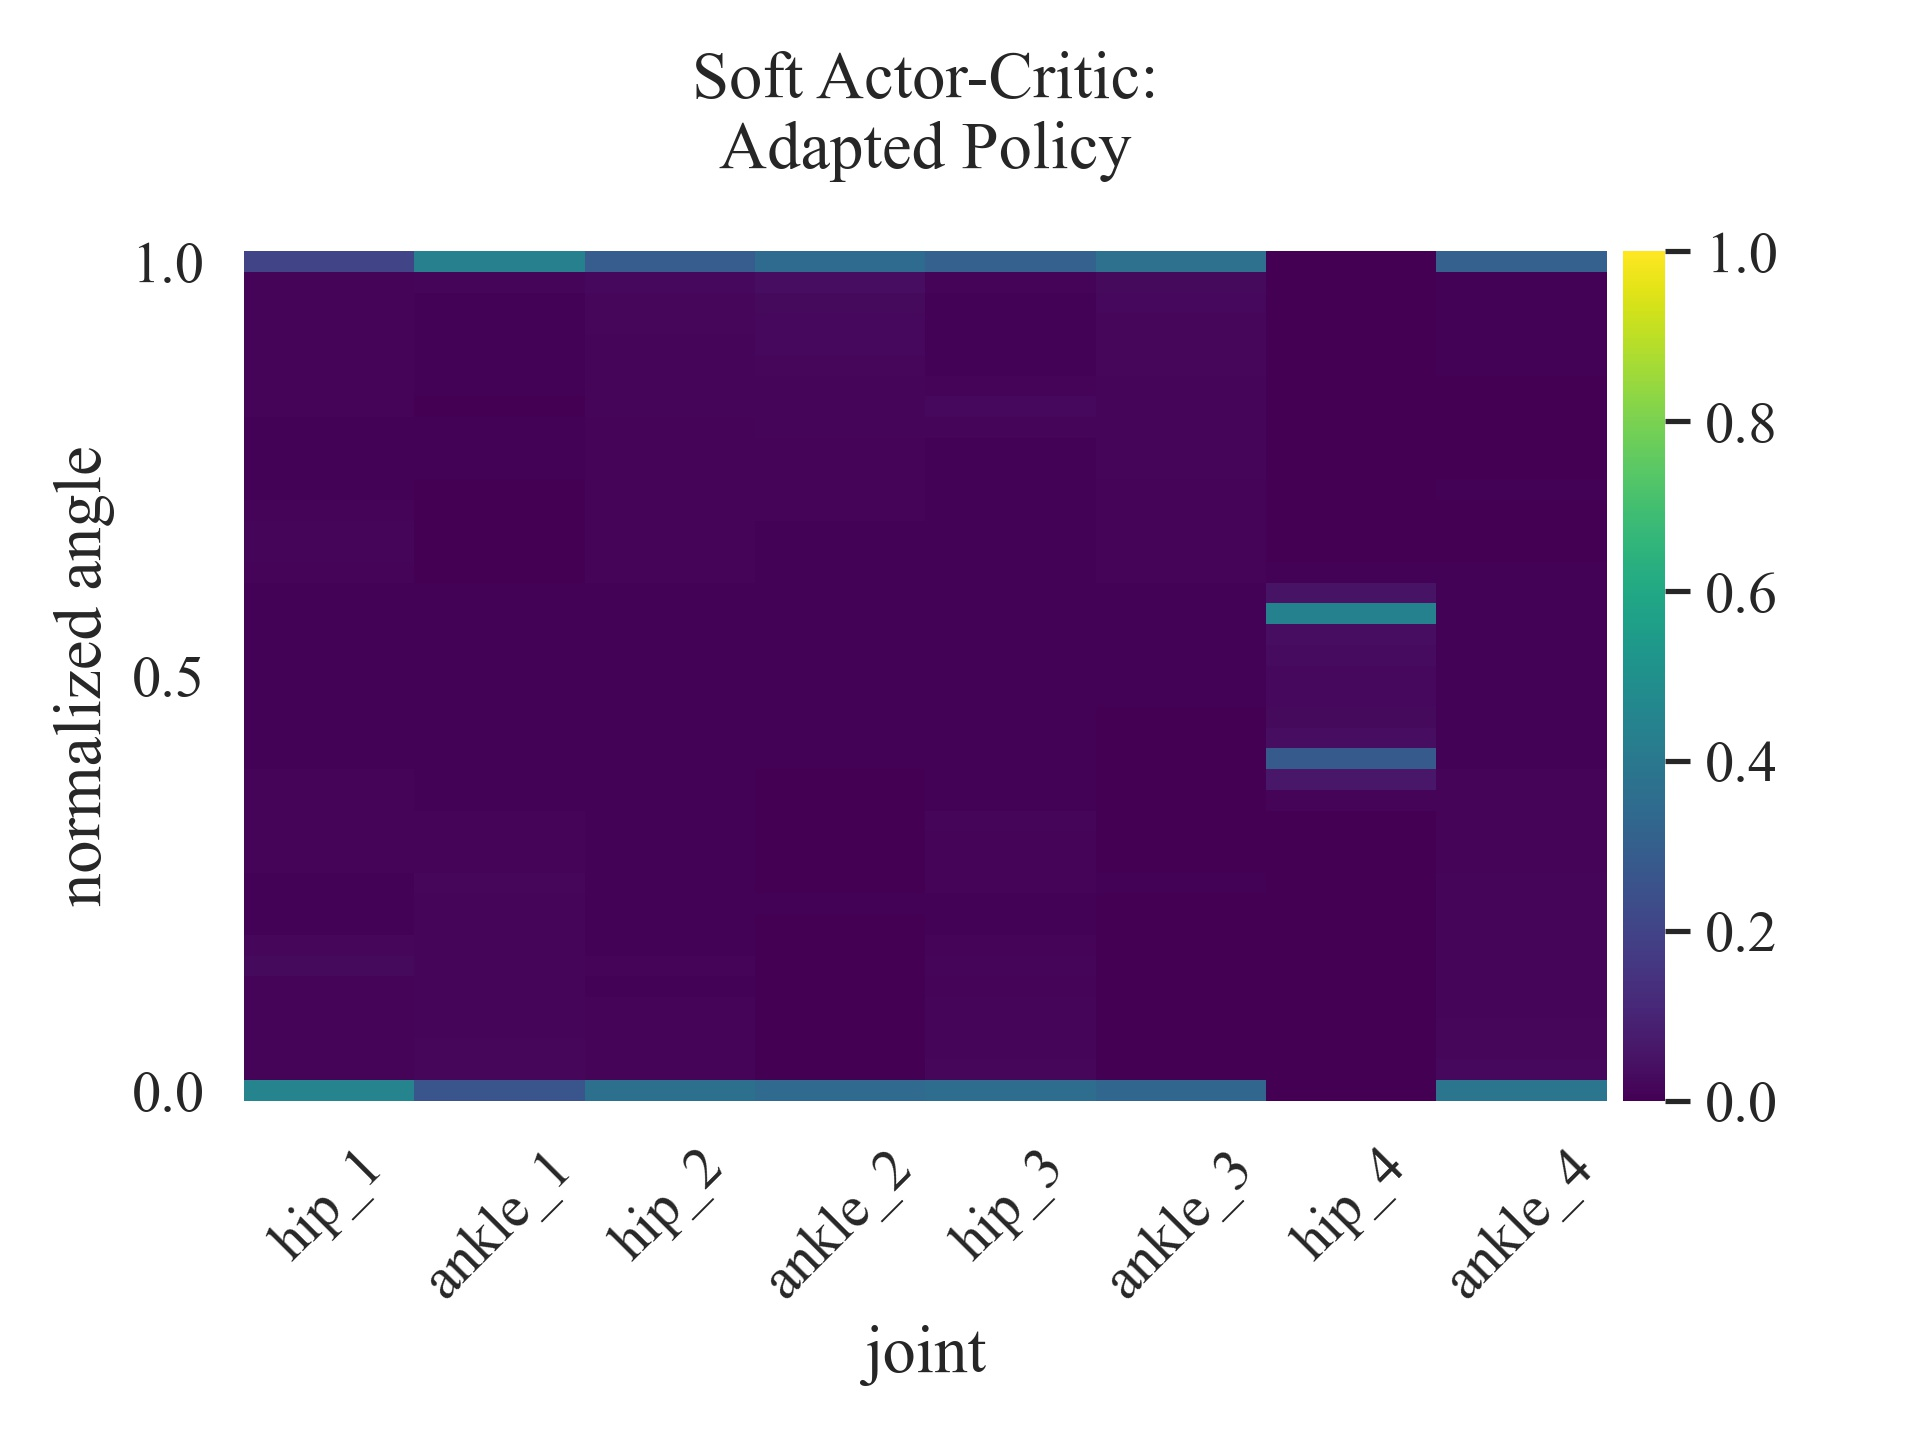
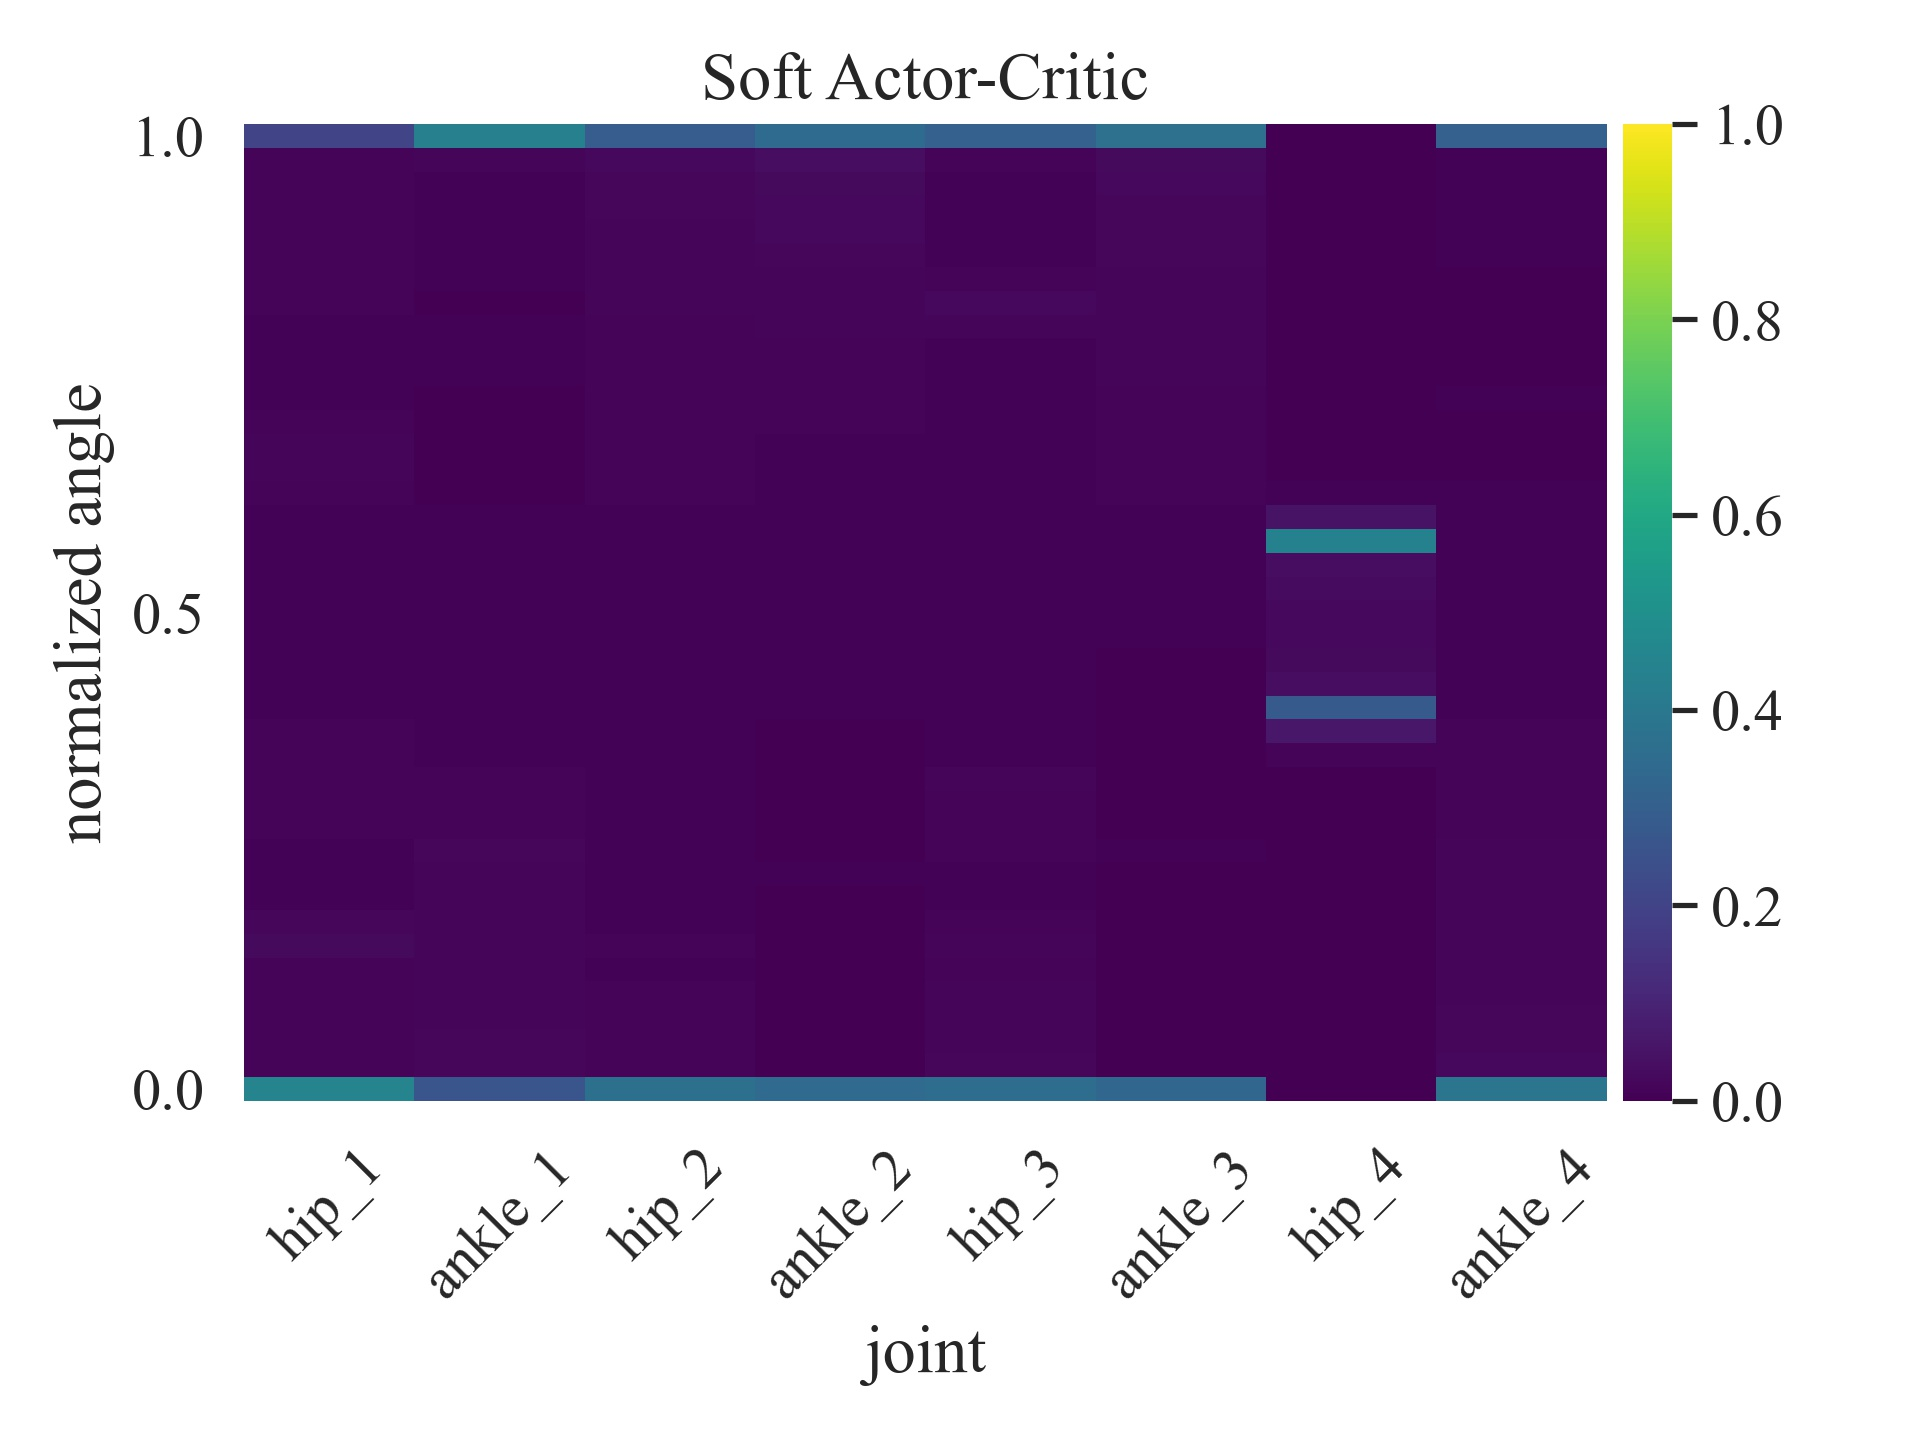
added new plots

diff --git a/plot/histogram/histogram.py b/plot/histogram/histogram.py
@@ -287,10 +287,10 @@ def plot_ant_heatmap(ranges):
 
     if suffix == "":
         # heatmap.set_title("{}\n{}".format(algorithm, name))
-        heatmap.set_title(f"{algorithm}:\nTransferred Policy, No Adaptation", pad=20)
+        heatmap.set_title(f"{algorithm}")
     else:
         # heatmap.set_title("{} ({})\n{}".format(algorithm, suffix_eval, name))
-        heatmap.set_title(f"{algorithm}:\nAdapted Policy", pad=20)
+        heatmap.set_title(f"{algorithm}")
 
     if algorithm == "Proximal Policy Optimization":
         algorithm = "PPO"
